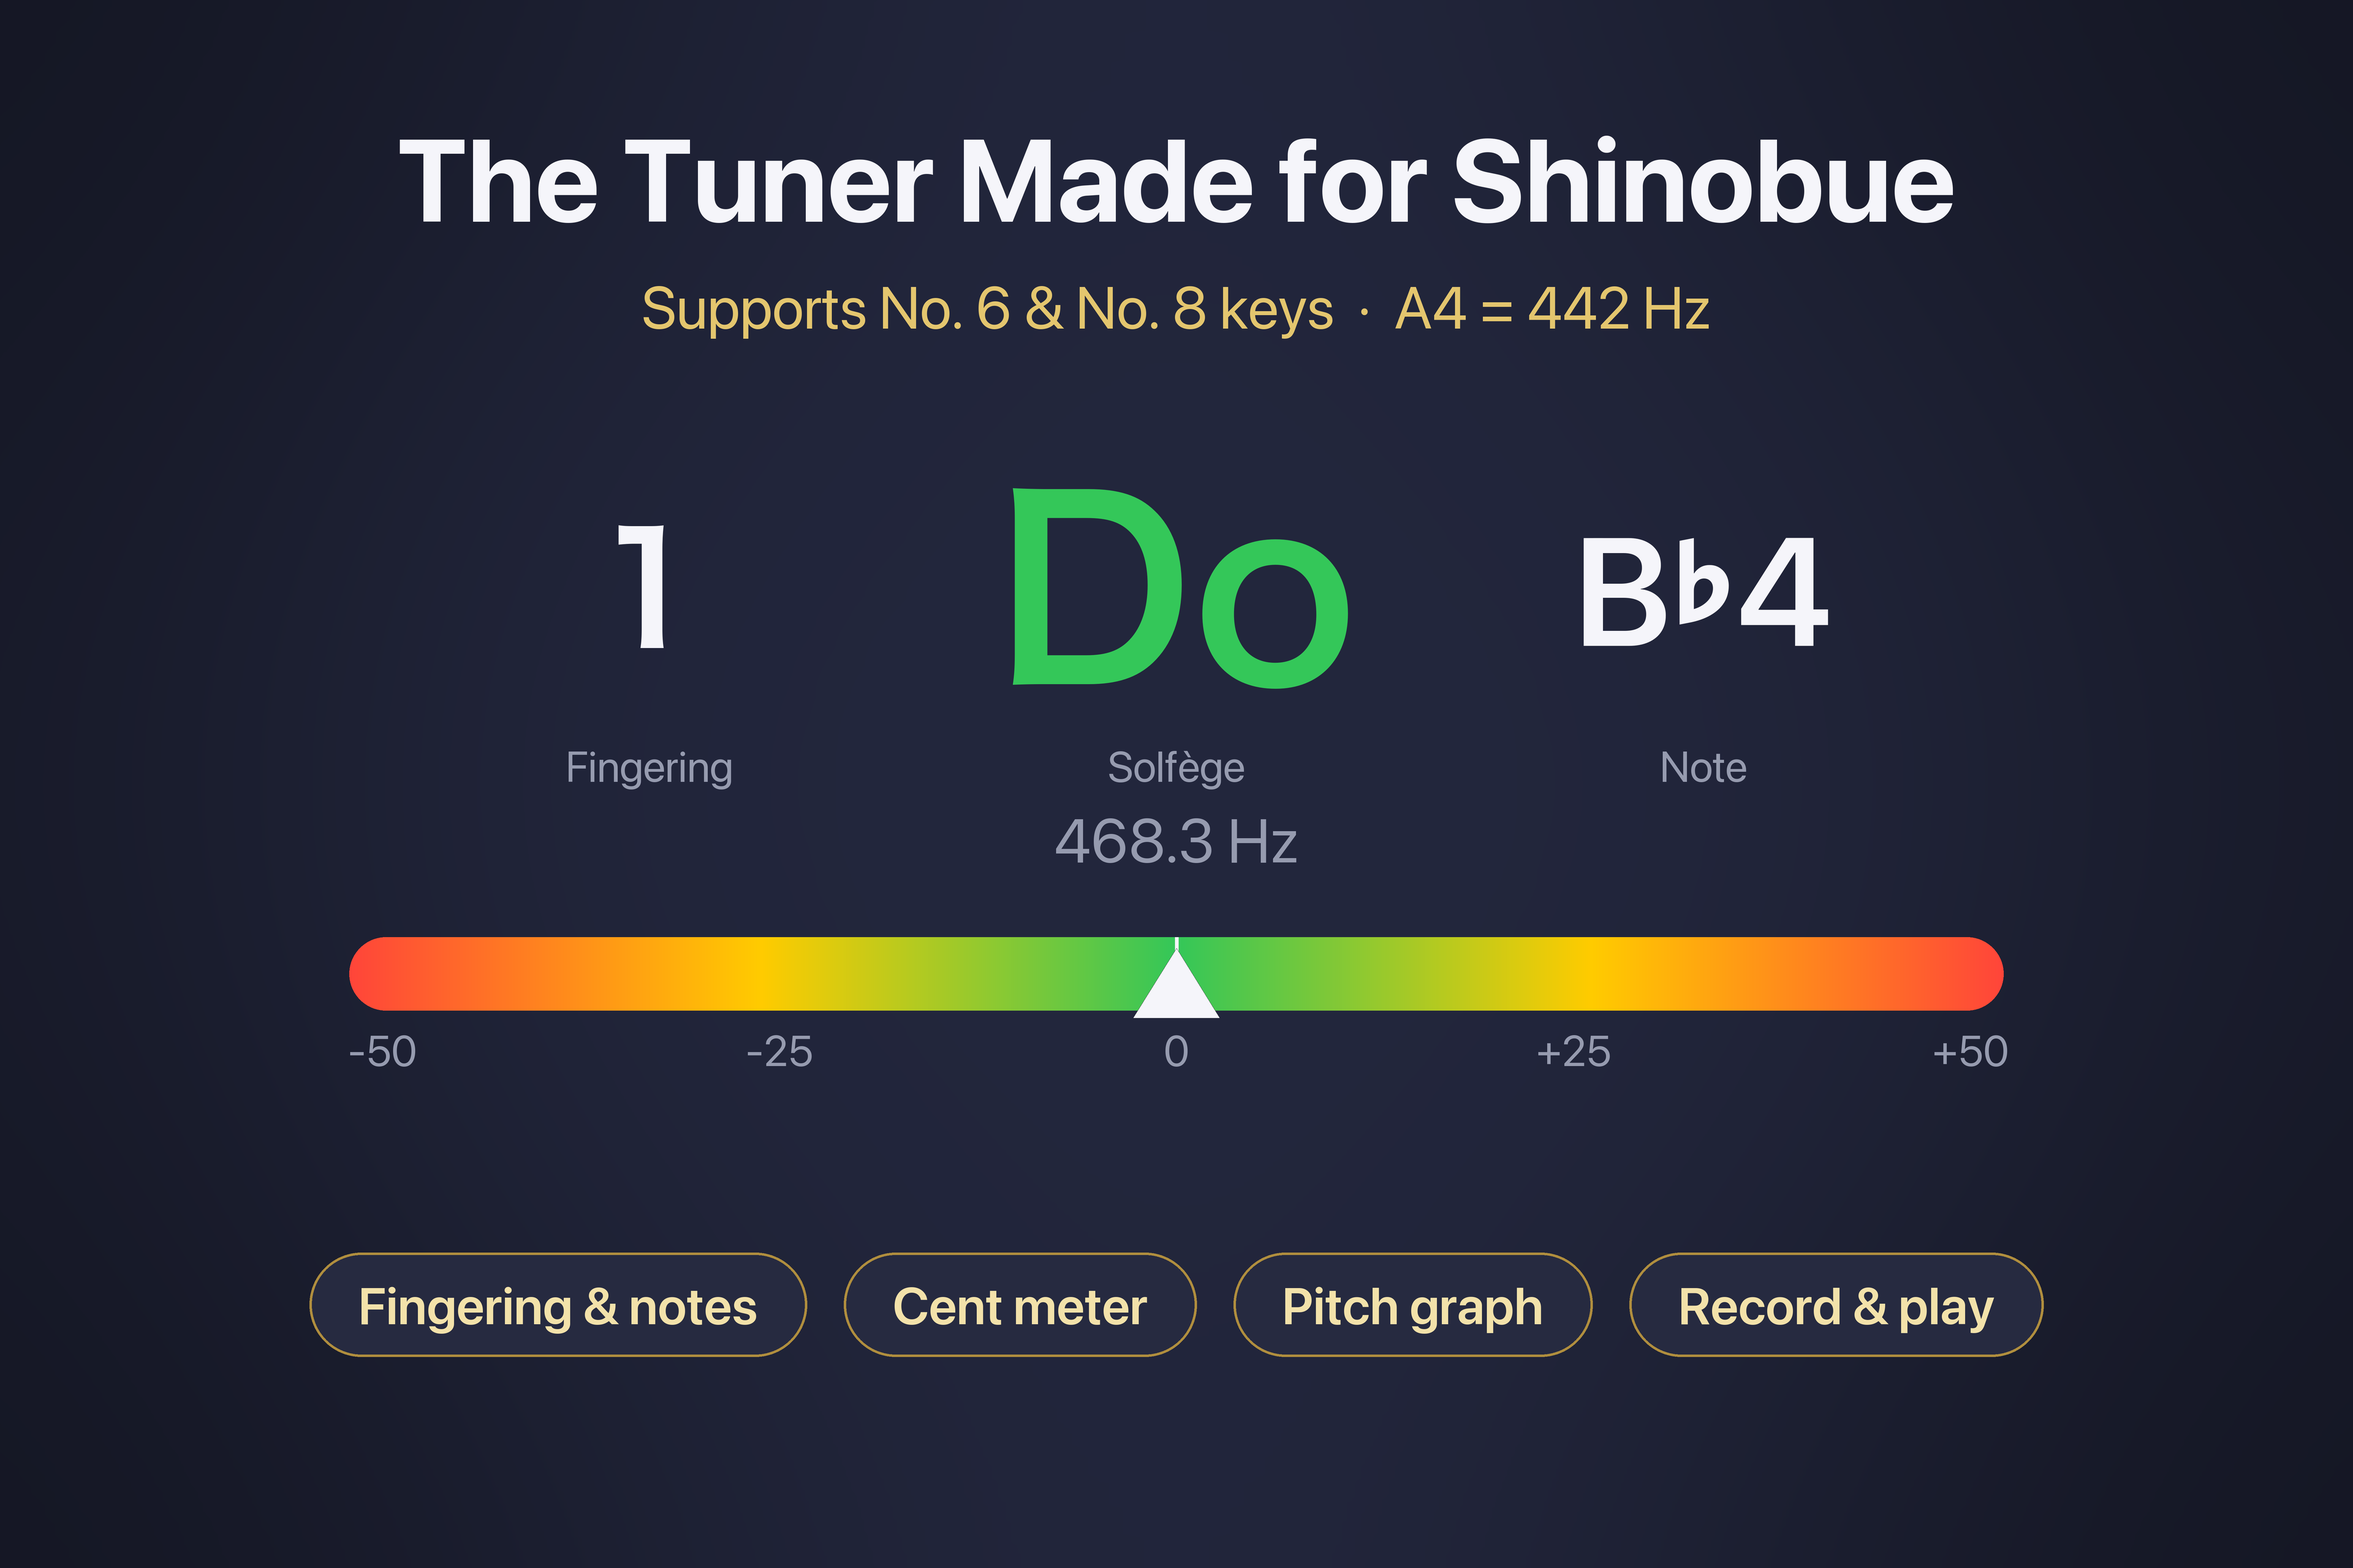
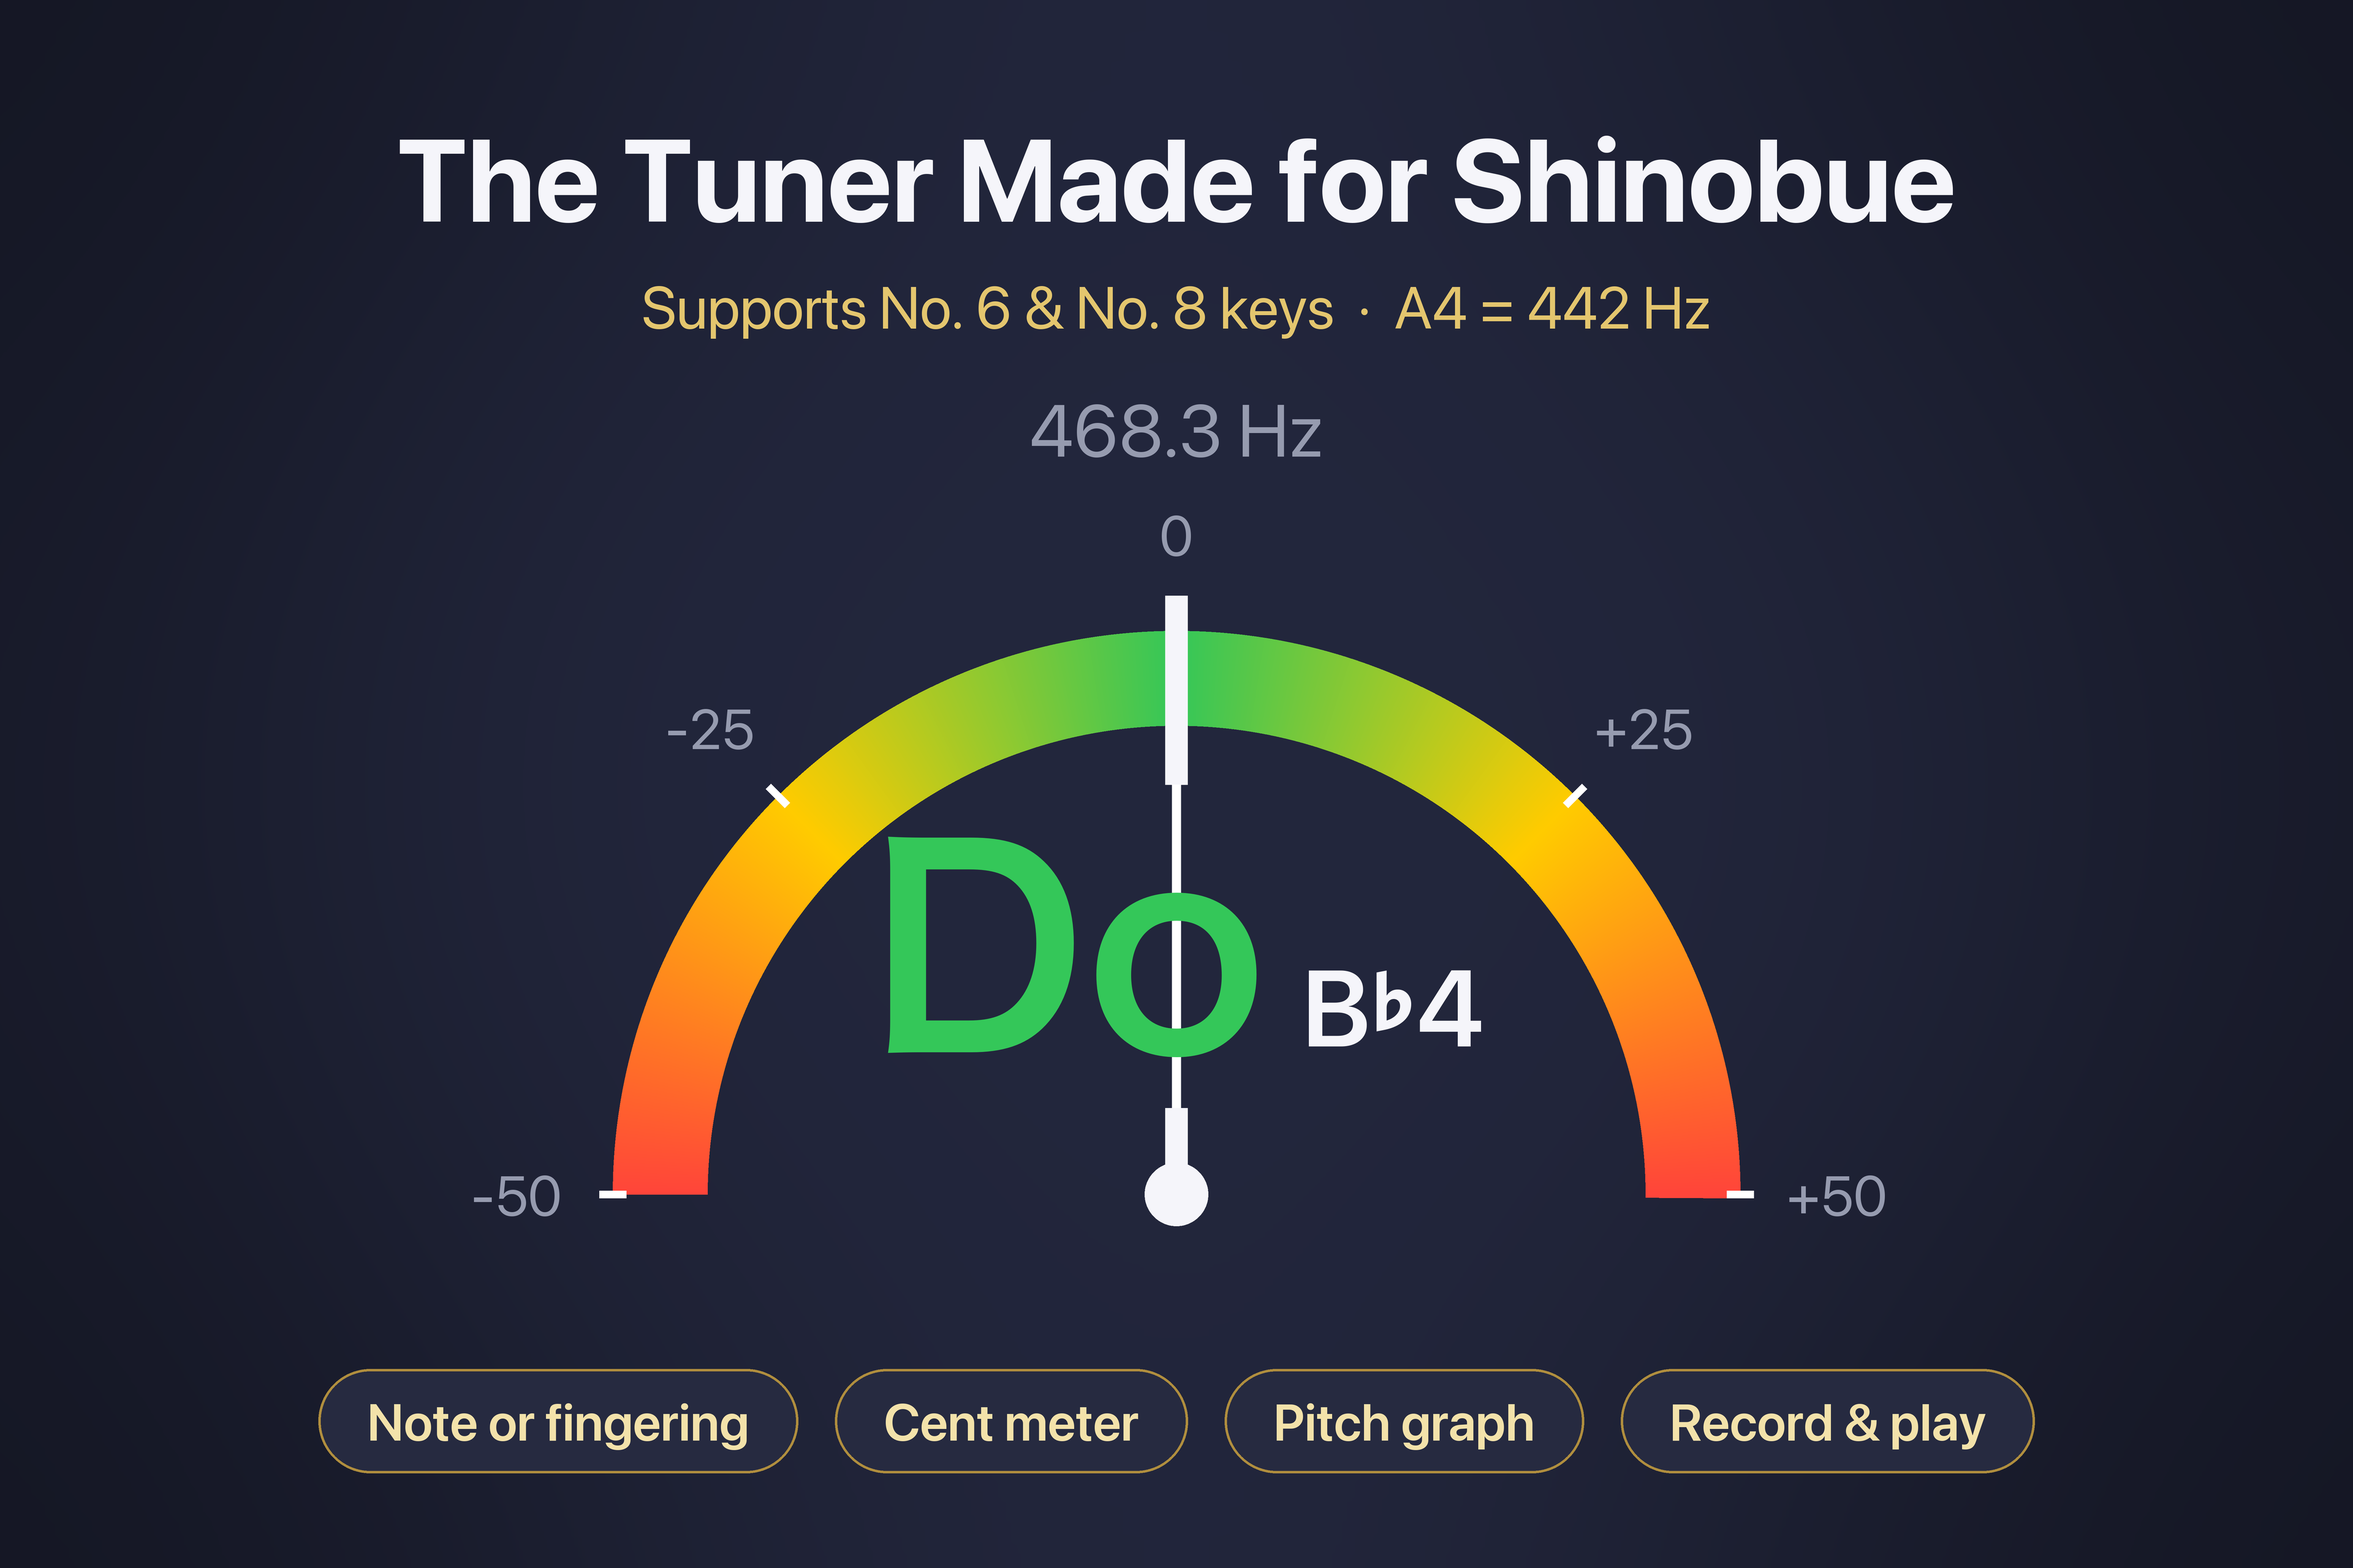
docs: App Store 用画像をタコメーター型ゲージに合わせて作り直す
make_store_assets.py が描いていた横バー＋三角インジケーターは、アプリの
メーターがタコメーター型になったため実態と合わなくなっていた。

- draw_meter を draw_gauge に置き換え、半円アーク・目盛り・針（太→細→太）を
  アプリと同じ比率・配色で描く
- 検索結果画像のレイアウトを組み直し、運指・階名・音名の3列と独立した Hz 行を
  やめて、ゲージ中央に階名＋音名を置く構成にする
- 機能チップの先頭を「音階名・運指名を選択」/「Note or fingering」に変更する
- header は笛のイラストと文言のみで影響がないが、再生成で差分が出る

diff --git a/docs/appstore/make_store_assets.py b/docs/appstore/make_store_assets.py
@@ -116,24 +116,56 @@ def meter_color(t):
     return stops[-1][1]
 
 
-def draw_meter(img, cx, top, width, height, label_font):
+def _needle_segment(cx, cy, ux, uy, r0, r1, width):
+    """ピボットからの距離 r0〜r1 を幅 width の帯として結ぶ四角形の頂点を返す"""
+    px, py = -uy, ux  # 進行方向に垂直な単位ベクトル
+    hw = width / 2
+    return [
+        (cx + ux * r0 + px * hw, cy + uy * r0 + py * hw),
+        (cx + ux * r1 + px * hw, cy + uy * r1 + py * hw),
+        (cx + ux * r1 - px * hw, cy + uy * r1 - py * hw),
+        (cx + ux * r0 - px * hw, cy + uy * r0 - py * hw),
+    ]
+
+
+def draw_gauge(img, cx, cy, radius, stroke, cents, label_font, main_height):
+    """アプリのチューナーゲージ（半円タコメーター）を描く。
+
+    cx, cy はピボット（針の回転中心）。cents は針が指すセント値（-50〜+50）。
+    main_height は中央に置く階名の行高さで、針を細くする区間の算出に使う。
+    """
     d = ImageDraw.Draw(img)
-    x0 = int(cx - width / 2)
-    bar = Image.new("RGB", (int(width), int(height)))
-    bd = ImageDraw.Draw(bar)
-    for x in range(int(width)):
-        bd.line([x, 0, x, height], fill=meter_color(x / (width - 1)))
-    mask = Image.new("L", bar.size, 0)
-    ImageDraw.Draw(mask).rounded_rectangle([0, 0, width - 1, height - 1], radius=height / 2, fill=255)
-    img.paste(bar, (x0, int(top)), mask)
-    # 中央線と針（三角）
-    d.line([cx, top, cx, top + height], fill=WHITE, width=int(6 * SS))
-    tri_h = height * 0.95
-    d.polygon([(cx, top + height * 0.15), (cx - tri_h * 0.62, top + height * 0.15 + tri_h), (cx + tri_h * 0.62, top + height * 0.15 + tri_h)],
-              fill=WHITE, outline=(60, 60, 70))
-    for i, label in enumerate(["-50", "-25", "0", "+25", "+50"]):
-        lx = x0 + width * (0.02 + 0.24 * i)
-        d.text((lx, top + height + 40 * SS), label, font=label_font, fill=GRAY, anchor="mt")
+    bbox = [cx - radius, cy - radius, cx + radius, cy + radius]
+
+    # アーク: 180°(9時) 〜 360°(3時) を細かく分割して角度グラデーションにする
+    steps = 540
+    for i in range(steps):
+        a0 = 180 + 180 * i / steps
+        a1 = 180 + 180 * (i + 1) / steps + 0.4  # わずかに重ねて継ぎ目を消す
+        d.arc(bbox, a0, a1, fill=meter_color(i / (steps - 1)), width=int(stroke))
+
+    # 目盛り線とラベル
+    label_r = radius + stroke / 2 + 80 * SS
+    for cent, label in [(-50, "-50"), (-25, "-25"), (0, "0"), (25, "+25"), (50, "+50")]:
+        ang = math.radians(cent / 50 * 90)
+        ux, uy = math.sin(ang), -math.cos(ang)
+        d.polygon(_needle_segment(cx, cy, ux, uy, radius - 22 * SS, radius + 22 * SS, 12 * SS),
+                  fill=(255, 255, 255, 180))
+        d.text((cx + label_r * ux, cy + label_r * uy), label, font=label_font, fill=GRAY, anchor="mm")
+
+    # 針: 先端(太) → 階名に重なる区間(細) → ハブ側(太)
+    ang = math.radians(cents / 50 * 90)
+    ux, uy = math.sin(ang), -math.cos(ang)
+    length = radius + stroke / 2 - 20 * SS
+    center_off = radius * 0.44           # 中央テキストの位置（アプリと同じ比率）
+    thin_lo = center_off - main_height / 2
+    thin_hi = center_off + main_height / 2
+    thick_w, thin_w = radius * 0.040, radius * 0.016
+    d.polygon(_needle_segment(cx, cy, ux, uy, thin_hi, length, thick_w), fill=WHITE)
+    d.polygon(_needle_segment(cx, cy, ux, uy, thin_lo, thin_hi, thin_w), fill=(255, 255, 255, 115))
+    d.polygon(_needle_segment(cx, cy, ux, uy, 0, thin_lo, thick_w), fill=WHITE)
+    hub = radius * 0.056
+    d.ellipse([cx - hub, cy - hub, cx + hub, cy + hub], fill=WHITE)
 
 
 def text(d, xy, s, f, fill):
@@ -163,38 +195,40 @@ def make_search(lang):
     if lang == "ja":
         text(d, (w / 2, 290 * SS), "篠笛専用チューナー", font(HIRA_W6, 210), WHITE)
         text(d, (w / 2, 500 * SS), "六本調子・八本調子に対応　A4 = 442 Hz", font(HIRA_W3, 96), GOLD)
-        fingering, solfege = "一", "ド"
-        captions = ["運指", "階名", "音名"]
-        cap_font = font(HIRA_W3, 70)
-        chips = ["運指・階名・音名", "セントメーター", "ピッチグラフ", "録音・再生"]
+        solfege = "ド"
+        chips = ["音階名・運指名を選択", "セントメーター", "ピッチグラフ", "録音・再生"]
         chip_font = font(HIRA_W6, 84)
     else:
         text(d, (w / 2, 290 * SS), "The Tuner Made for Shinobue", font(SFNS, 190, "Bold"), WHITE)
         text(d, (w / 2, 500 * SS), "Supports No. 6 & No. 8 keys  ·  A4 = 442 Hz", font(SFNS, 96, "Regular"), GOLD)
-        fingering, solfege = "1", "Do"
-        captions = ["Fingering", "Solfège", "Note"]
-        cap_font = font(SFNS, 70, "Regular")
-        chips = ["Fingering & notes", "Cent meter", "Pitch graph", "Record & play"]
+        solfege = "Do"
+        chips = ["Note or fingering", "Cent meter", "Pitch graph", "Record & play"]
         chip_font = font(SFNS, 84, "Semibold")
 
-    # 音の表示（チューナー画面の上部と同じ並び：運指・階名・音名）。六本調子の一 = B♭4
-    big = font(HIRA_W6, 400)
-    mid = font(HIRA_W6, 250)
-    row_y = 960 * SS
-    text(d, (w / 2 - 860 * SS, row_y), fingering, mid, WHITE)
-    text(d, (w / 2, row_y), solfege, big, GREEN)
-    text(d, (w / 2 + 860 * SS, row_y), "B♭4", font(SFNS, 250, "Semibold"), WHITE)
-    for dx, c in zip([-860, 0, 860], captions):
-        text(d, (w / 2 + dx * SS, 1250 * SS), c, cap_font, GRAY)
-    text(d, (w / 2, 1370 * SS), "468.3 Hz", font(SFNS, 100, "Regular"), GRAY)
+    # 周波数（アプリではゲージの上に出る）
+    text(d, (w / 2, 700 * SS), "468.3 Hz", font(SFNS, 120, "Regular"), GRAY)
 
-    draw_meter(img, w / 2, 1530 * SS, 2700 * SS, 120 * SS, font(SFNS, 70, "Regular"))
+    # チューナーゲージ。中央に階名＋音名（六本調子の運指「一」= B♭4）
+    gauge_cy, radius, stroke = 1950 * SS, 920 * SS, 155 * SS
+    solfege_size = 440
+    main_h = solfege_size * SS * 1.2
+    draw_gauge(img, w / 2, gauge_cy, radius, stroke, 0, font(SFNS, 92, "Regular"), main_h)
+
+    big = font(HIRA_W6, solfege_size)
+    note_font = font(SFNS, int(solfege_size * 0.4), "Semibold")
+    center_y = gauge_cy - radius * 0.44
+    gap = solfege_size * 0.13 * SS
+    sw = d.textlength(solfege, font=big)
+    nw = d.textlength("B♭4", font=note_font)
+    left = w / 2 - (sw + gap + nw) / 2
+    text(d, (left + sw / 2, center_y), solfege, big, GREEN)
+    text(d, (left + sw + gap + nw / 2, center_y + solfege_size * 0.22 * SS), "B♭4", note_font, WHITE)
 
     # 機能のチップ
     pad_x, chip_h, gap = 80 * SS, 170 * SS, 60 * SS
     widths = [d.textlength(c, font=chip_font) + pad_x * 2 for c in chips]
     x = w / 2 - (sum(widths) + gap * (len(chips) - 1)) / 2
-    cy = 2130 * SS
+    cy = 2320 * SS
     for c, cw in zip(chips, widths):
         d.rounded_rectangle([x, cy - chip_h / 2, x + cw, cy + chip_h / 2], radius=chip_h / 2,
                             fill=(38, 42, 64), outline=GOLD_DARK, width=4 * SS)
